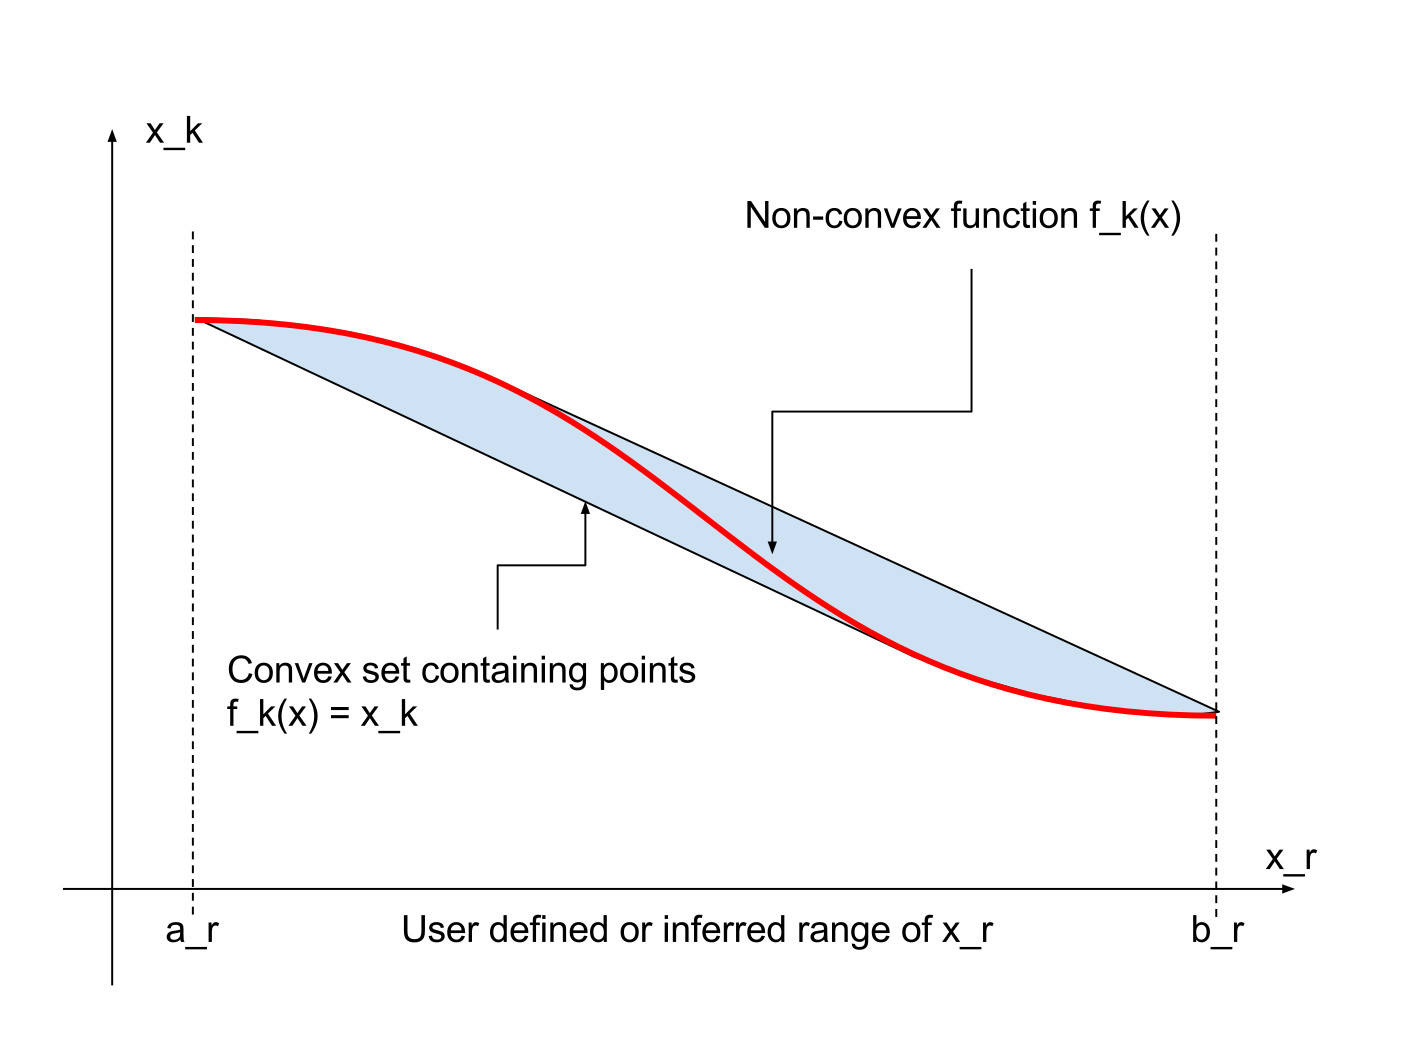
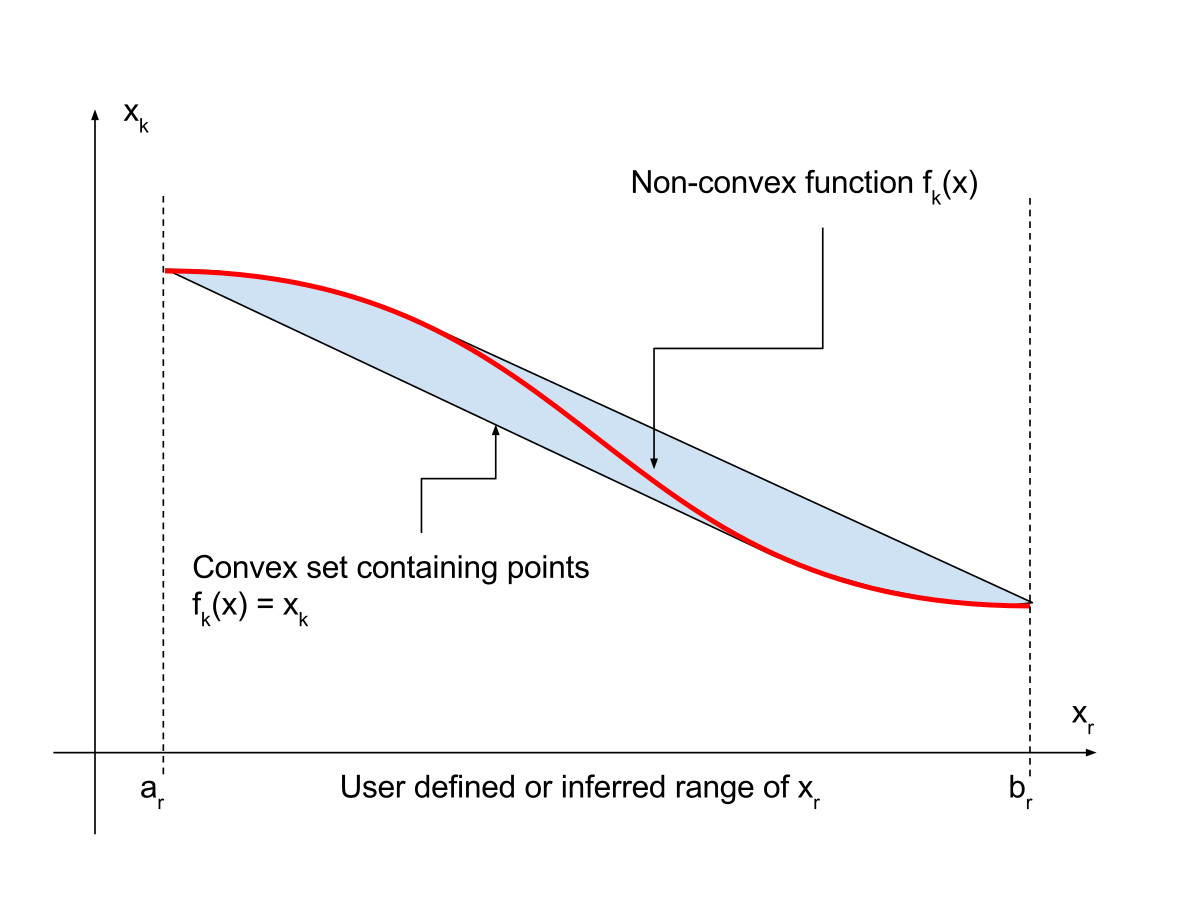
...

diff --git a/README.md b/README.md
@@ -1,6 +1,3 @@
-
-<script type="text/javascript" src="https://cdn.mathjax.org/mathjax/latest/MathJax.js?config=TeX-AMS_HTML-full"></script>
-
 # Global optimization module in Python
 
 This repository contains code that can be used to obtain solutions of
@@ -27,7 +24,7 @@ The code in this repo can provably find such best possible solution. Moreover,
 The code finds the global optimum of optimization problem of the following form:
 
 <p align="center">
-<img src="https://github.com/iaroslav-ai/global-optimization/blob/master/images/main_1.jpg?raw=true" alt="Generic optimization problem" height="100px" />
+<img src="https://github.com/iaroslav-ai/global-optimization/blob/master/images/main_1.jpg?raw=true" alt="Generic optimization problem" height="80px" />
 </p>
 
 where the objective F(x) and vector valued g(x) and h(x) are known (white box) and need not be neither linear nor convex.
@@ -35,10 +32,10 @@ where the objective F(x) and vector valued g(x) and h(x) are known (white box) a
 The following equivalent formulation is used, that is obtained by introducing extra variables:
 
 <p align="center">
-<img src="https://github.com/iaroslav-ai/global-optimization/blob/master/images/main_2.jpg?raw=true" alt="Generic optimization problem" height="180px"/>
+<img src="https://github.com/iaroslav-ai/global-optimization/blob/master/images/main_2.jpg?raw=true" alt="Generic optimization problem" height="145px"/>
 </p>
 
-where f_k(x) for any k ∈ K is some function, for which lower convex
+where f<sub>k</sub>(x) for any k ∈ K is some function, for which lower convex
 underestimator function and upper concave overestimator function are available.
 
 Currently user can select from a set of supported functions. Alternatively,
@@ -52,7 +49,7 @@ them into computational graph with smaller number of arguments.
 Assume you would like to solve the following optimization problem:
 
 <p align="center">
-<img src="https://github.com/iaroslav-ai/global-optimization/blob/master/images/example.jpg?raw=true" alt="Generic optimization problem" height="180px"/>
+<img src="https://github.com/iaroslav-ai/global-optimization/blob/master/images/example.jpg?raw=true" alt="Generic optimization problem" height="145px"/>
 </p>
 
 Then the code could be used as follows:
@@ -112,30 +109,33 @@ of original non - convex optimization problem in this region.
  The smaller the region, the tighter such convex relaxation become.
 
  The only non - convex element in the optimizatin formulation is equality
- of the form f(x) = x_k. Assume for simplicity that such function f takes
+ of the form f(x) = x<sub>k</sub>. Assume for simplicity that such function f takes
  internally only a single input from vector x. Then the equality can be
  plotted as a line in 2d space:
 
-<img src="https://github.com/iaroslav-ai/global-optimization/blob/master/images/eq_relaxation.jpg?raw=true" alt="Example convex relaxation" style="width: 500px;"/>
+<p align="center">
+<img src="https://github.com/iaroslav-ai/global-optimization/blob/master/images/eq_relaxation.jpg?raw=true" alt="Example convex relaxation" width="500px"/>
+</p>
 
- Such equality can be relaxed by constraining x_k to belong to the convex
- set, that contains all points f_k(x) = x_k. As such set is convex, the resulting
+
+ Such equality can be relaxed by constraining x<sub>k</sub> to belong to the convex
+ set, that contains all points f<sub>k</sub>(x) = x_k. As such set is convex, the resulting
  relaxed constraint is convex.
 
- Such convex constraint can be defined as follows. Let o_k(x) be some upper concave overestimator function for f_k(x) on interval
- a_k to b_k, and u_k(x) be the convex underestimator of f_k(x) on [a_k, b_k]
+ Such convex constraint can be defined as follows. Let o<sub>k</sub>(x) be some upper concave overestimator function for f<sub>k</sub>(x) on interval
+ a<sub>k</sub> to b<sub>k</sub>, and u<sub>k</sub>(x) be the convex underestimator of f<sub>k</sub>(x) on [a<sub>k</sub>, b<sub>k</sub>]
    interval. Then the convex constraint described above can be expressed as two
    convex inequalities:
 
-   x_k - o(x) <= 0
+   x<sub>k</sub> - o<sub>k</sub>(x) <= 0
 
-   u(x) - x_k <= 0
+   u<sub>k</sub>(x) - x<sub>k</sub> <= 0
 
   Thus, in order to add a new function to the set of supported functions
   by this optimizer, one either needs to provide convex under and over estimators
   or such estimators should be computed numerically.
 
   *IMPORTANT* Both under and overestimators should become tighter
-  and converge to the actual function values as the interval [a_k, b_k]
+  and converge to the actual function values as the interval [a<sub>k</sub>, b<sub>k</sub>]
   becomes infinitely smaller. If this criterion is not met, then the optimization
   might not converge.
